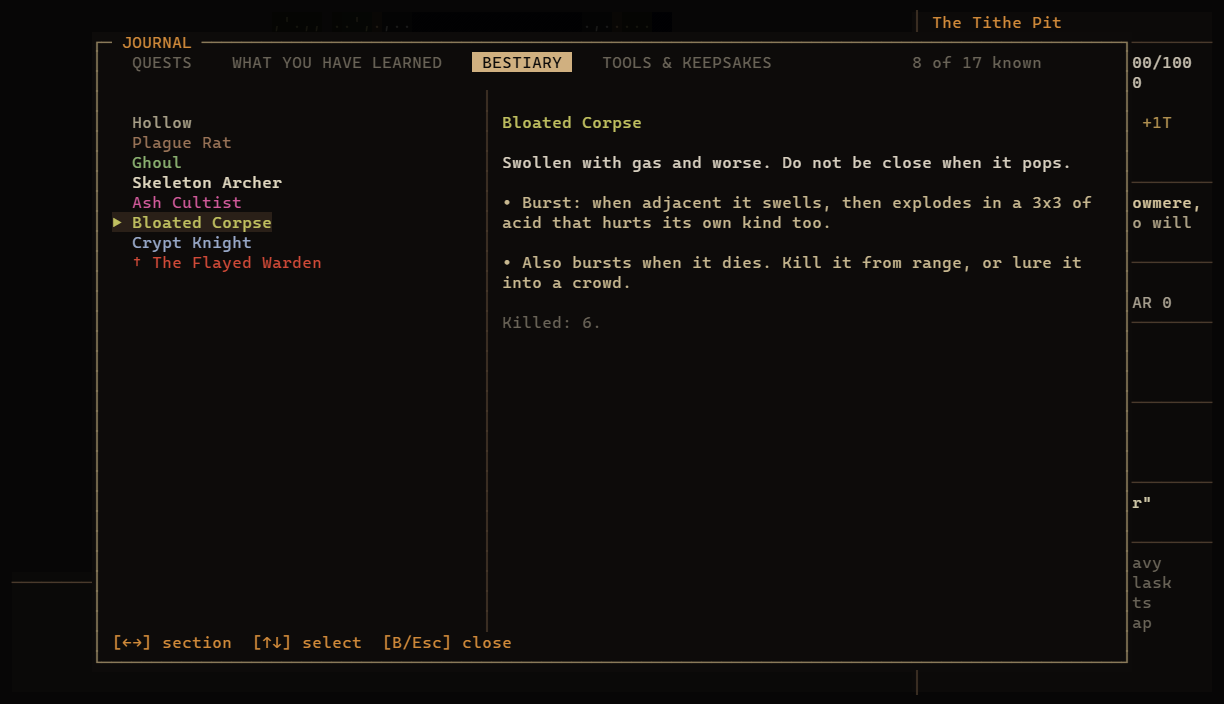
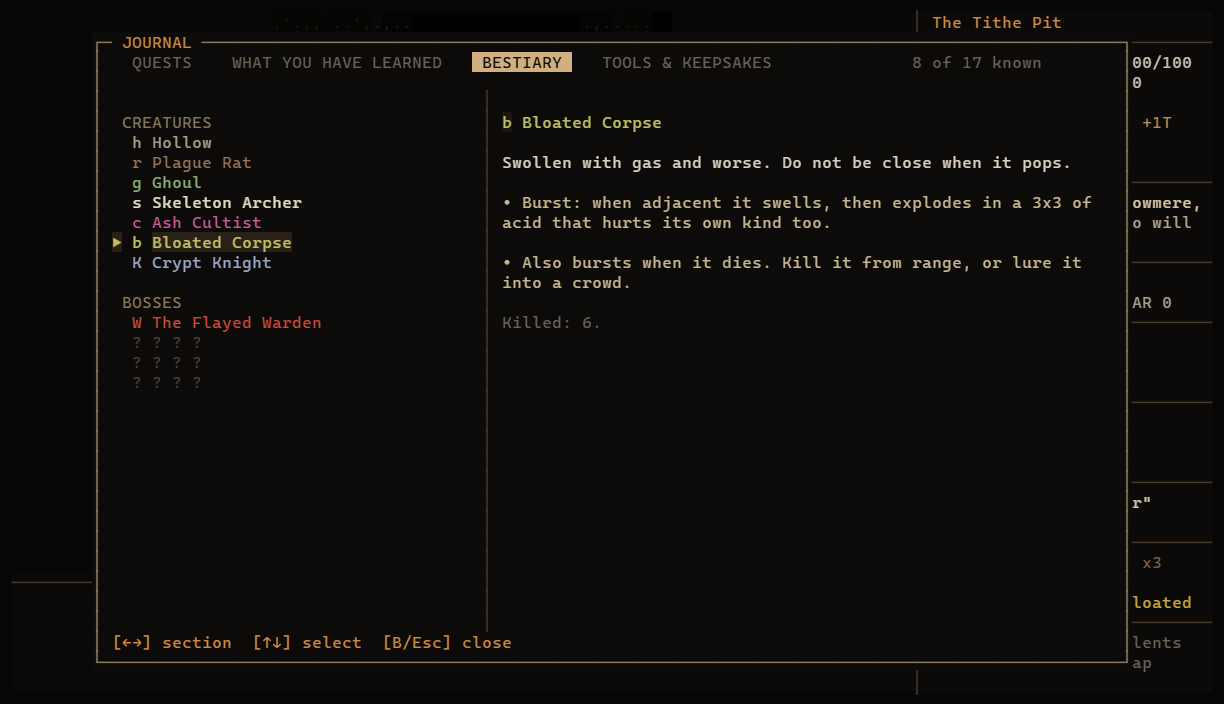
Bestiary boss section, symbol legend, and IN SIGHT sidebar
- Bestiary is split into Creatures and Bosses; all four boss slots show
  from the start as unknowns with a hint, and fill in once met
- Bosses get distinct symbols (W, O, Ω, ♦) everywhere they appear
- Sidebar IN SIGHT lists every creature in view by symbol, name and count
- Target and bestiary entries show the creature's symbol
- Help screen gains a legend of all map symbols

Changed region(s): [[0.0931, 0.1562, 0.2794, 0.4688], [0.9314, 0.7812, 0.9935, 0.9375], [0.4036, 0.1562, 0.5588, 0.1875]]

diff --git a/src/render.ts b/src/render.ts
@@ -2,7 +2,7 @@
 import { Game, levelCost, BLOCKING } from './game.ts';
 import { Screen, scale, mix } from './term.ts';
 import { T, TOOLS, type Obj, type Enemy, type Slot, type Floor } from './types.ts';
-import { ENEMIES, BOSSES, ELITE_MOD_NAMES, BIOMES } from './data.ts';
+import { ENEMIES, BOSSES, BOSS_GLYPH, ELITE_MOD_NAMES, BIOMES } from './data.ts';
 import { RARITY_COLORS, itemLines, itemGlyph, weaponBase, PATTERN_DESC, INV_MAX, salvageValue } from './loot.ts';
 import { G } from './world.ts';
 import { TOOL_INFO, NPCS, ENDING_INTRO, ENDINGS } from './story.ts';
@@ -498,7 +498,9 @@ function drawSidebar(g: Game, s: Screen, x0: number): void {
   hline(s, x0 + 1, y++, SW - 1);
   const tg = g.target && !g.target.dead ? g.target : null;
   if (tg) {
-    s.text(x, y++, tg.name.slice(0, W), tg.elite ? 0xffd040 : tg.boss ? BOSSES[tg.boss].color : TEXT);
+    const tcol = tg.elite ? 0xffd040 : tg.boss ? BOSSES[tg.boss].color : ENEMIES[tg.def].color;
+    s.put(x, y, tg.boss ? BOSS_GLYPH[tg.boss] : ENEMIES[tg.def].glyph, tcol);
+    s.text(x + 2, y++, tg.name.slice(0, W - 2), tcol);
     bar(s, x, y++, SW - 4, tg.hp / tg.maxHp, 0xb02020, 0x301010);
     let info = '';
     if (tg.elite) info = tg.elite.mods.map((m) => ELITE_MOD_NAMES[m]).join(', ');
@@ -516,9 +518,27 @@ function drawSidebar(g: Game, s: Screen, x0: number): void {
   const near = g.nearbyDescription();
   for (let k = 0; k < 2; k++) s.text(x, y++, (near[k] ?? '').slice(0, W), 0xd0c8a8);
   hline(s, x0 + 1, y++, SW - 1);
+  // what is that letter? every creature in view, by symbol
+  s.text(x, y, 'IN SIGHT', DIM);
+  const sight = g.inSight();
+  let lx = x + 9, ly = y;
+  if (!sight.length) s.text(lx, ly, 'nothing', 0x3a362e);
+  for (const c of sight) {
+    const label = `${c.name}${c.n > 1 ? ` x${c.n}` : ''}`;
+    const len = label.length + 3;
+    if (lx + len > x0 + SW) {
+      if (ly >= y + 2) break;
+      lx = x;
+      ly++;
+    }
+    s.put(lx, ly, c.glyph, c.color);
+    s.text(lx + 2, ly, label.slice(0, x0 + SW - lx - 3), scale(c.color, 0.8));
+    lx += len;
+  }
+  y += 3;
+  hline(s, x0 + 1, y++, SW - 1);
   const ctl: [string, string][] = [
-    ['WASD', 'move'], ['J', 'atk'], ['K', 'heavy'], ['SPC', 'roll'], ['Q', 'parry'], ['F', 'flask'], ['E', 'use'],
-    ['R', 'tool'], ['T', 'talents'], ['I', 'pack'], ['B', 'journal'], ['M', 'map'], ['?', 'help'],
+    ['?', 'help & legend'], ['T', 'talents'], ['B', 'journal'], ['I', 'pack'], ['M', 'map'],
   ];
   let cx = x;
   for (const [k, v] of ctl) {
@@ -786,17 +806,32 @@ function drawJournal(g: Game, s: Screen): void {
   const listW = 38;
   for (let j = y + 3; j < y + h - 1; j++) s.put(x + listW + 1, j, '│', BORDER);
   if (!entries.length) s.text(x + 3, y + 4, g.journalTab === 1 ? 'Nothing yet. The dead keep their secrets close.' : g.journalTab === 2 ? 'You have not met anything yet. You will.' : 'Nothing.', DIM);
-  if (g.journalTab === 2) s.text(x + w - 22, y + 1, `${entries.length} of 17 known`, DIM);
+  if (g.journalTab === 2) s.text(x + w - 22, y + 1, `${entries.filter((e) => !e.unknown).length} of 17 known`, DIM);
+  let row = y + 4;
+  let lastGroup = '';
   entries.forEach((en, k) => {
-    if (k > h - 7) return;
+    if (en.group && en.group !== lastGroup) {
+      if (lastGroup) row++;
+      lastGroup = en.group;
+      if (row < y + h - 3) s.text(x + 3, row++, en.group, 0x8a7a5a);
+    }
+    if (row >= y + h - 3) return;
     const sel = k === g.journalSel;
-    s.text(x + 2, y + 4 + k, `${sel ? '▶' : ' '} ${en.title}`.slice(0, listW - 2), en.color, sel ? 0x2a2018 : undefined);
+    s.text(x + 2, row, sel ? '▶' : ' ', en.color, sel ? 0x2a2018 : undefined);
+    if (en.glyph) {
+      s.put(x + 4, row, en.glyph, en.color);
+      s.text(x + 6, row, en.title.slice(0, listW - 7), en.color, sel ? 0x2a2018 : undefined);
+    } else s.text(x + 4, row, en.title.slice(0, listW - 5), en.color, sel ? 0x2a2018 : undefined);
+    row++;
   });
   const sel = entries[g.journalSel];
   if (sel) {
     let dy = y + 4;
     const dw = w - listW - 6;
-    s.text(x + listW + 3, dy++, sel.title.slice(0, dw), sel.color);
+    if (sel.glyph) {
+      s.put(x + listW + 3, dy, sel.glyph, sel.color, 0x1a1612);
+      s.text(x + listW + 5, dy++, sel.title.slice(0, dw - 2), sel.color);
+    } else s.text(x + listW + 3, dy++, sel.title.slice(0, dw), sel.color);
     dy++;
     for (const para of sel.text.split('  ')) {
       const move = para.startsWith('•');
@@ -851,32 +886,42 @@ function drawMap(g: Game, s: Screen): void {
   s.text(x + 2, y + h - 1, ' any key to close ', DIM);
 }
 
+const LEGEND: [string, number, string][] = [
+  ['@', 0xfff4e0, 'you'], ['☻', 0xc8b0d8, 'townsfolk'], ['z', 0x90e0a0, 'your thrall'], ['!', 0xff4040, 'it saw you'],
+  ['☼', 0xffa030, 'bonfire'], ['¡', 0xffc060, 'lamp'], ['■', 0xc09048, 'chest'], ['δ', 0xa88058, 'urn (break it)'],
+  ['†', 0x9a9a9a, 'grave (dig it)'], ['≡', 0xc0c0d8, 'inscription'], ['?', 0xe8a050, 'blood message'], ['^', 0xff3030, 'spike trap'],
+  ['Ψ', 0xd82a2a, 'brazier'], ['◊', 0x70f0ff, 'rune stone'], ['●', 0xb0a898, 'puzzle stone'], ['□', 0x9a9080, 'stone scale'],
+  ['+', 0xb07a40, 'door'], ['+', 0xffc040, 'locked door'], ['▒', 0xa09080, 'cracked wall'], ['#', 0xa08a6a, 'rubble (spade)'],
+  ['‡', 0x8a5a6a, 'thorns (lantern)'], ['░', 0x3a3a5a, 'gap / mist'], ['≈', 0x2a4a6a, 'water'], ['♣', 0x6a5a40, 'tree'],
+  ['>', 0xf0f0ff, 'stairs down'], ['<', 0xf0f0ff, 'way out'], ['▼', 0xffd8a0, 'dungeon'], ['§', 0xff3030, 'your bloodstain'],
+  ['/', 0x7898ff, 'weapon'], [')', 0x7898ff, 'bow'], ['[', 0x7898ff, 'armor'], ['=', 0x7898ff, 'ring'],
+  ['¶', 0xf0e0c0, 'lore page'], ['◘', 0xffe0a0, 'quest item'], ['⌐', 0xffd040, 'crypt key'], ['!', 0xfff0b0, 'sacred tallow'],
+];
+
 function drawHelp(s: Screen): void {
   const lines: [string, number][] = [
-    ['MOVE        WASD / arrows   walk into people and things to use them', TEXT],
-    ['ATTACK      J or X          quick strike in the direction you face', TEXT],
-    ['HEAVY       K or C          slow, 1.8x damage, staggers, breaks cracked walls', TEXT],
-    ['ROLL        Space           dodge 2 tiles, invulnerable while rolling', TEXT],
-    ['PARRY       Q or L          time it as a red tile flashes, then riposte (3x)', TEXT],
-    ['FLASK       F               heal ~45%. Refills at bonfires.', TEXT],
-    ['USE / TALK  E               bonfires, chests, inscriptions, people', TEXT],
-    ['TOOL        R  (1-4 pick)   spade, lantern, chain hook, bell', TEXT],
-    ['SKILLS      U  O  P         active talents (bind them in the talent screen)', TEXT],
-    ['TALENTS T   PACK I   JOURNAL B   MAP M   SOUND N', TEXT],
+    ['MOVE   WASD / arrows      ATTACK J or X      HEAVY K or C      ROLL Space', TEXT],
+    ['PARRY  Q or L             FLASK  F           USE / TALK  E', TEXT],
+    ['TOOL   R  (pick 1-4)      SKILLS U O P       TALENTS T    PACK I', TEXT],
+    ['JOURNAL B (quests, lore, bestiary)           MAP M        SOUND N', TEXT],
     ['', TEXT],
     ['• Red tiles are incoming attacks. Get out, roll through, or parry.', 0xff7060],
-    ['• Unaware enemies (dim) take 2.5x BACKSTAB damage. Approach from the dark.', 0xd0c8a8],
-    ['• Each dungeon floor has a locked door. Puzzles and tools earn the key.', 0xffd060],
-    ['• Rubble, thorns, gaps and mist: each needs a tool. Come back when you have it.', 0xffd060],
-    ['• Talk to everyone in Hollowmere. They hate you. They know why.', 0xc8b0d8],
-    ['• Dying drops your ashes as a bloodstain (§). Reach it to reclaim.', 0xff6060],
-    ['• Resting heals and lets you travel between flames. The dead rise again.', 0xffa040],
-    ['• Each level gives a talent point. Four paths; you will not master them all.', 0x9ad0a0],
+    ['• Dim enemies have not noticed you: 2.5x BACKSTAB. Letters are creatures;', 0xd0c8a8],
+    ['  the sidebar\'s IN SIGHT names them, the Bestiary explains them.', 0xd0c8a8],
+    ['• Dying drops your ashes as a bloodstain. Resting raises the dead again.', 0xffa040],
   ];
-  const w = 80, h = lines.length + 4;
+  const w = 84, h = lines.length + Math.ceil(LEGEND.length / 4) + 7;
   const x = Math.max(0, (s.w - w) >> 1), y = Math.max(0, (s.h - h) >> 1);
   box(s, x, y, w, h, 'HOW TO SURVIVE (YOU WILL NOT)');
   lines.forEach(([t, c], k) => s.text(x + 3, y + 2 + k, t, c));
+  const ly = y + 3 + lines.length;
+  s.text(x + 3, ly, 'WHAT YOU ARE LOOKING AT', ACCENT);
+  LEGEND.forEach(([g, c, label], i) => {
+    const col = i % 4, row = (i / 4) | 0;
+    const lx = x + 3 + col * 20;
+    s.put(lx, ly + 2 + row, g, c, 0x1a1612);
+    s.text(lx + 2, ly + 2 + row, label.slice(0, 17), 0xa8a090);
+  });
   s.text(x + 3, y + h - 1, ' any key to close ', DIM);
 }
 

diff --git a/src/game.ts b/src/game.ts
@@ -10,7 +10,7 @@ import {
 } from './types.ts';
 import { generateDungeon } from './dungeon.ts';
 import { buildWorld, regionAt, START } from './world.ts';
-import { ENEMIES, BOSSES, ELITE_MODS, THEMES, MOVES, eliteName, DEATH_LINES, URN_LINES } from './data.ts';
+import { ENEMIES, BOSSES, BOSS_GLYPH, ELITE_MODS, THEMES, MOVES, eliteName, DEATH_LINES, URN_LINES } from './data.ts';
 import {
   makeItem, makeUnique, rollLoot, rollRarity, computeStats, weaponBase, scaleBonus, salvageValue, setUidFloor,
   RARITY_COLORS, RARITY_NAMES, INV_MAX, UNIQUES, type Stats, type Drop,
@@ -56,6 +56,14 @@ export interface DialogState {
   page: number;
   after?: () => void;
   shop?: string;
+}
+export interface JournalEntry {
+  title: string;
+  text: string;
+  color: number;
+  glyph?: string;
+  group?: string;
+  unknown?: boolean;
 }
 export interface ShopEntry {
   name: string;
@@ -890,7 +898,7 @@ export class Game {
   }
 
   // ---- journal
-  journalEntries(): { title: string; text: string; color: number }[] {
+  journalEntries(): JournalEntry[] {
     if (this.journalTab === 0) {
       const out: { title: string; text: string; color: number }[] = [];
       for (const [id, q] of Object.entries(QUESTS)) {
@@ -2576,18 +2584,46 @@ export class Game {
     }
   }
 
-  bestiary(): { title: string; text: string; color: number }[] {
-    const out: { title: string; text: string; color: number }[] = [];
-    const add = (id: string, name: string, desc: string, color: number, boss: boolean) => {
-      if (!this.flags.has(`seen:${id}`)) return;
-      const kills = this.counters[`kill:${id}`] ?? 0;
-      const moves = (MOVES[id] ?? []).map((m) => `• ${m}`).join('  ');
-      const tail = boss ? (this.bossDead(id) ? 'Destroyed.' : 'Still waiting for you.') : `Killed: ${kills}.`;
-      out.push({ title: `${boss ? '† ' : ''}${name}`, text: `${desc}  ${moves}  ${tail}`, color });
-    };
-    for (const d of Object.values(ENEMIES)) add(d.id, d.name, d.desc, d.color, false);
-    for (const b of Object.values(BOSSES)) add(b.id, b.name, `${b.title}. ${b.intro}`, b.color, true);
+  bestiary(): JournalEntry[] {
+    const out: JournalEntry[] = [];
+    for (const d of Object.values(ENEMIES)) {
+      if (!this.flags.has(`seen:${d.id}`)) continue;
+      const moves = (MOVES[d.id] ?? []).map((m) => `• ${m}`).join('  ');
+      out.push({ title: d.name, glyph: d.glyph, group: 'CREATURES', color: d.color, text: `${d.desc}  ${moves}  Killed: ${this.counters[`kill:${d.id}`] ?? 0}.` });
+    }
+    // the four bosses always have a place, even before you meet them
+    DUNGEONS.forEach((dun) => {
+      const b = BOSSES[dun.boss];
+      if (!this.flags.has(`seen:${b.id}`)) {
+        out.push({ title: '? ? ?', glyph: '?', group: 'BOSSES', color: 0x4a4438, unknown: true, text: `Something vast waits at the bottom of ${dun.name}. You have not seen it yet.` });
+        return;
+      }
+      const moves = (MOVES[b.id] ?? []).map((m) => `• ${m}`).join('  ');
+      out.push({
+        title: b.name, glyph: BOSS_GLYPH[b.id], group: 'BOSSES', color: b.color,
+        text: `${b.title}. ${b.intro}  ${moves}  ${this.bossDead(b.id) ? 'Destroyed.' : 'Still waiting for you.'}`,
+      });
+    });
     return out;
+  }
+
+  /** Creatures currently in view, grouped: for the sidebar's IN SIGHT legend. */
+  inSight(): { glyph: string; name: string; color: number; n: number }[] {
+    const m = new Map<string, { glyph: string; name: string; color: number; n: number }>();
+    for (const e of this.enemies) {
+      if (e.dead || this.vis[this.idx(e.x, e.y)] <= 0) continue;
+      const key = e.ally ? 'thrall' : e.boss ?? (e.elite ? `elite:${e.id}` : e.def);
+      const d = ENEMIES[e.def];
+      const look = e.ally
+        ? { glyph: 'z', name: 'Thrall', color: 0x90e0a0 }
+        : e.boss
+          ? { glyph: BOSS_GLYPH[e.boss], name: BOSSES[e.boss].name, color: BOSSES[e.boss].color }
+          : { glyph: d.glyph, name: e.elite ? e.name : d.name, color: e.elite ? 0xffd040 : d.color };
+      const cur = m.get(key);
+      if (cur) cur.n++;
+      else m.set(key, { ...look, n: 1 });
+    }
+    return [...m.values()].sort((a, b) => b.n - a.n);
   }
 
   // ================================================================ UI helpers

diff --git a/test/mechanics.ts b/test/mechanics.ts
@@ -522,7 +522,7 @@ function grabStory(): void {
 // ---------------------------------------------------------------- the bestiary
 {
   const h = fresh(31);
-  ok(h.bestiary().length === 0, 'the bestiary starts empty');
+  ok(h.bestiary().filter((b) => !b.unknown).length === 0 && h.bestiary().filter((b) => b.group === 'BOSSES').length === 4, 'the bestiary starts empty, with four unknown boss slots');
   const e = duel(h, 'ghoul');
   h.updateFov();
   tick(h, 6);

diff --git a/tools/screenshots.ts b/tools/screenshots.ts
@@ -264,3 +264,10 @@ function explore(g: Game, steps: number, every = 3): void {
   g.journalSel = 5;
   snap(g, '9-bestiary');
 }
+
+// ------------------------------------------------------------------ 10. help & legend
+{
+  const g = game(14);
+  g.mode = 'help';
+  snap(g, '10-help');
+}

diff --git a/src/data.ts b/src/data.ts
@@ -371,3 +371,5 @@ export const MOVES: Record<string, string[]> = {
     'Phase two, Cross: the whole row and column you stand on.',
   ],
 };
+
+export const BOSS_GLYPH: Record<string, string> = { warden: 'W', mother: 'O', choir: 'Ω', king: '♦' };
